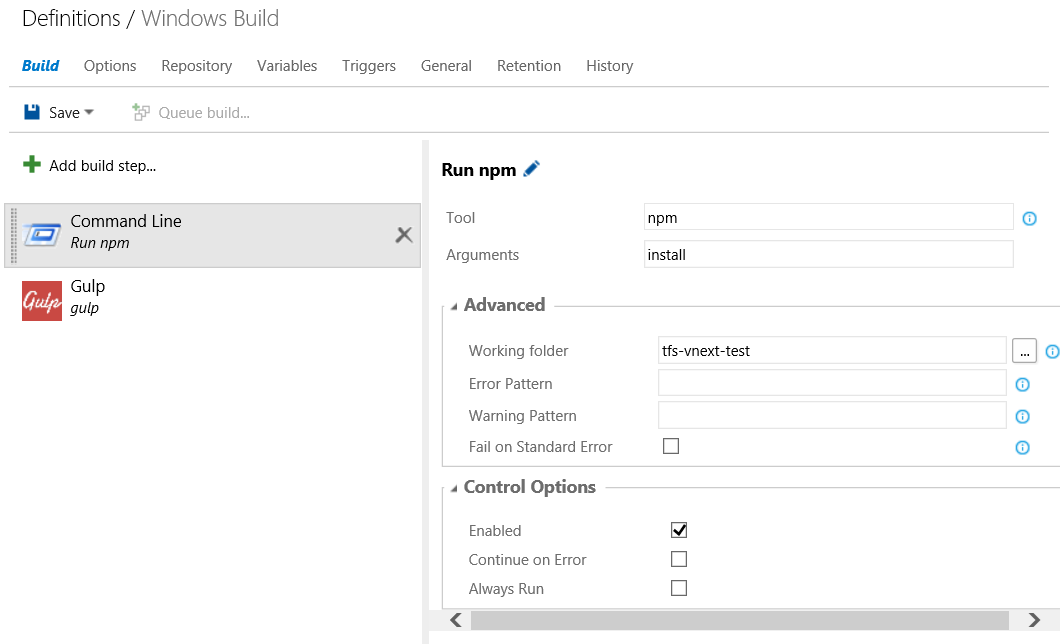
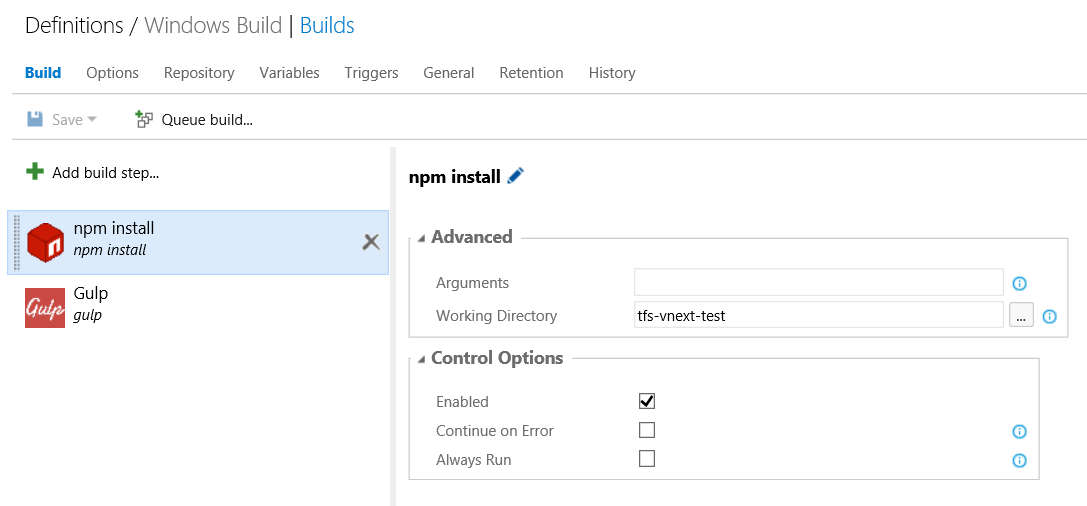
Updated instructions based on latest TFS 2015 build

diff --git a/tutorial-team-build/TFS2015.md b/tutorial-team-build/TFS2015.md
@@ -53,19 +53,16 @@ Detailed instructions on creating build definitions in TFS 2015 can be found in 
 
 1.  Create a new build definition and select “Empty” as the template. We’ll start out targeting platforms that can be built on Windows so give the build definition a name that indicates that this is the case.
 
-2.  Now we will configure the build definition to install any Gulp or npm package dependencies your build may have. Under the "Build” tab, add a new build step and select “Command Line” with the following settings:
-
-    1.  **Tool:** npm
-    2.  **Arguments:** install
-    3.  **Advanced =\> Working folder:** The location of the Cordova project itself in your solution
-    4.  **Advanced =\> Fail on Standard Error:** Unchecked
+2.  Now we will configure the build definition to install any Gulp or npm package dependencies your build may have. 
+	1.  Under the "Build” tab, add a new build step and select **npm install** from the **Package** category
+	2.  Set **Advanced =\> Working Directory** to location of the Cordova project itself inside your solution (not the solution root).
 
 	![Windows Build Definition - npm](<media/tfs2015-1.png>)
 
-3.  Next we’ll configure Gulp itself. Under the "Build” tab, add a new build step and select “Gulp” with the following settings:
+3.  Next we’ll configure Gulp itself. Under the "Build” tab, add a new build step and select **Gulp** from the **Build** category and use the following settings:
 
-    1.  **Gulp File Path:** gulpfile.js
-    2.  **Advanced =\> Working Directory:** The location of the Cordova project itself in your solution
+    1.  **Gulp File Path:** The location of gulpfile.js in your solution (likely inside the Cordova project itself)
+    2.  **Advanced =\> Working Directory:** The location of the Cordova project itself inside your solution (not the solution root)
 
 	![Windows Build Definition - gulp](<media/tfs2015-2.png>)
 
@@ -85,8 +82,7 @@ Detailed instructions on creating build definitions in TFS 2015 can be found in 
 That’s it for Windows!
 
 #### Build Definition for OSX
-Now let’s create a version of this same build definition to target iOS that will
-run on a configured cross-platform agent on OSX.
+Now let’s create a version of this same build definition to target iOS that will run on a configured cross-platform agent on OSX.
 
 1.  Right click on the Windows build definition and select “Clone.” Once you save you should give this definition a name that indicates it’s the OSX build.
 
